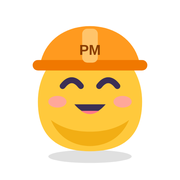
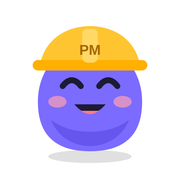
ポコを最初の紫の体＋黄色いヘルメットに戻す（黄色はアプリの配色のみ）
favicon・apple-touch-icon・PWAアイコン・OGPも紫のポコで作り直し。

Claude-Session: https://claude.ai/code/session_01JcA11h6qKqPFSSXFHEX9RD

diff --git a/index.html b/index.html
@@ -717,13 +717,13 @@ function floatXP(x,y,t,cls=""){const e=document.createElement("div");e.className
 function comboPop(t,c){const e=document.createElement("div");e.className="combo";e.textContent=t;if(c)e.style.color=c;document.body.appendChild(e);setTimeout(()=>e.remove(),1000)}
 function toast(t,ms=2400){const e=document.createElement("div");e.className="toast";e.textContent=t;document.body.appendChild(e);setTimeout(()=>e.remove(),ms)}
 
-/* ================= マスコット「ポコ」（オリジナル・黄色ベース） ================= */
-const POCO={body:"#FFC93C",shade:"#F2AE14",cheek:"#FF9FB0",ink:"#3B2F55",hat:"#FF9A1F",brim:"#F07800",ridge:"#FFC46B",txt:"#8A3D00"};
+/* ================= マスコット「ポコ」（オリジナル：紫の体＋黄色いヘルメット） ================= */
+const POCO={body:"#7b6bff",shade:"#6656ee",cheek:"#ff9fb0",ink:"#1d1b33",hat:"#ffc531",brim:"#ffb000",ridge:"#ffd866",txt:"#a86800"};
 function pocoSVG(mood="happy",cls="",vb="0 0 120 120"){const P=POCO,k=P.ink;
  const m=mood==="sad"?"sad":mood==="wow"||mood==="cheer"||mood==="trophy"?"wow":"happy";
  const eyes=m==="sad"?`<circle cx="46" cy="59" r="4.5" fill="${k}"/><circle cx="74" cy="59" r="4.5" fill="${k}"/><path d="M38 52l13-5M82 52l-13-5" stroke="${k}" stroke-width="3.5" stroke-linecap="round"/>`:m==="wow"?`<circle cx="46" cy="56" r="7" fill="#fff"/><circle cx="74" cy="56" r="7" fill="#fff"/><circle cx="46" cy="57" r="4" fill="${k}"/><circle cx="74" cy="57" r="4" fill="${k}"/>`:`<path d="M39 58q7-9 14 0M67 58q7-9 14 0" stroke="${k}" stroke-width="4.5" fill="none" stroke-linecap="round"/>`;
  const mouth=m==="sad"?`<path d="M52 78q8-6 16 0" stroke="${k}" stroke-width="4" fill="none" stroke-linecap="round"/>`:m==="wow"?`<ellipse cx="60" cy="78" rx="6" ry="7" fill="${k}"/>`:`<path d="M48 72q12 14 24 0z" fill="${k}"/><path d="M53 77q7 5 14 0" fill="#ff7a8a"/>`;
- return `<svg class="mascot ${cls}" viewBox="${vb}" aria-hidden="true"><ellipse cx="60" cy="112" rx="32" ry="5" fill="rgba(0,0,0,.12)"/><path d="M20 70c0-26 18-44 40-44s40 18 40 44-14 38-40 38-40-12-40-38z" fill="${P.body}"/><path d="M30 84c6 14 18 20 30 20s24-6 30-20c-8 6-18 9-30 9s-22-3-30-9z" fill="${P.shade}"/><ellipse cx="35" cy="70" rx="7" ry="4.5" fill="${P.cheek}" opacity=".8"/><ellipse cx="85" cy="70" rx="7" ry="4.5" fill="${P.cheek}" opacity=".8"/>${eyes}${mouth}<path d="M22 40c4-18 20-28 38-28s34 10 38 28z" fill="${P.hat}"/><rect x="16" y="38" width="88" height="8" rx="4" fill="${P.brim}"/><rect x="54" y="14" width="12" height="26" rx="4" fill="${P.ridge}"/><text x="60" y="34" font-size="11" font-weight="800" text-anchor="middle" fill="${P.txt}" font-family="sans-serif">PM</text></svg>`}
+ return `<svg class="mascot ${cls}" viewBox="${vb}" aria-hidden="true"><ellipse cx="60" cy="112" rx="32" ry="5" fill="rgba(0,0,0,.12)"/><path d="M20 70c0-26 18-44 40-44s40 18 40 44-14 38-40 38-40-12-40-38z" fill="${P.body}"/><path d="M30 84c6 14 18 20 30 20s24-6 30-20c-8 6-18 9-30 9s-22-3-30-9z" fill="${P.shade}"/><ellipse cx="35" cy="70" rx="7" ry="4.5" fill="${P.cheek}" opacity=".7"/><ellipse cx="85" cy="70" rx="7" ry="4.5" fill="${P.cheek}" opacity=".7"/>${eyes}${mouth}<path d="M22 40c4-18 20-28 38-28s34 10 38 28z" fill="${P.hat}"/><rect x="16" y="38" width="88" height="8" rx="4" fill="${P.brim}"/><rect x="54" y="14" width="12" height="26" rx="4" fill="${P.ridge}"/><text x="60" y="34" font-size="11" font-weight="800" text-anchor="middle" fill="${P.txt}" font-family="sans-serif">PM</text></svg>`}
 function poco(mood="happy",cls=""){return pocoSVG(mood,cls,cls.includes("logo")?"12 8 96 100":"0 0 120 120")}
 
 /* ================= ゲーミフィケーション中核 ================= */

diff --git a/src/app.html b/src/app.html
@@ -396,13 +396,13 @@ function floatXP(x,y,t,cls=""){const e=document.createElement("div");e.className
 function comboPop(t,c){const e=document.createElement("div");e.className="combo";e.textContent=t;if(c)e.style.color=c;document.body.appendChild(e);setTimeout(()=>e.remove(),1000)}
 function toast(t,ms=2400){const e=document.createElement("div");e.className="toast";e.textContent=t;document.body.appendChild(e);setTimeout(()=>e.remove(),ms)}
 
-/* ================= マスコット「ポコ」（オリジナル・黄色ベース） ================= */
-const POCO={body:"#FFC93C",shade:"#F2AE14",cheek:"#FF9FB0",ink:"#3B2F55",hat:"#FF9A1F",brim:"#F07800",ridge:"#FFC46B",txt:"#8A3D00"};
+/* ================= マスコット「ポコ」（オリジナル：紫の体＋黄色いヘルメット） ================= */
+const POCO={body:"#7b6bff",shade:"#6656ee",cheek:"#ff9fb0",ink:"#1d1b33",hat:"#ffc531",brim:"#ffb000",ridge:"#ffd866",txt:"#a86800"};
 function pocoSVG(mood="happy",cls="",vb="0 0 120 120"){const P=POCO,k=P.ink;
  const m=mood==="sad"?"sad":mood==="wow"||mood==="cheer"||mood==="trophy"?"wow":"happy";
  const eyes=m==="sad"?`<circle cx="46" cy="59" r="4.5" fill="${k}"/><circle cx="74" cy="59" r="4.5" fill="${k}"/><path d="M38 52l13-5M82 52l-13-5" stroke="${k}" stroke-width="3.5" stroke-linecap="round"/>`:m==="wow"?`<circle cx="46" cy="56" r="7" fill="#fff"/><circle cx="74" cy="56" r="7" fill="#fff"/><circle cx="46" cy="57" r="4" fill="${k}"/><circle cx="74" cy="57" r="4" fill="${k}"/>`:`<path d="M39 58q7-9 14 0M67 58q7-9 14 0" stroke="${k}" stroke-width="4.5" fill="none" stroke-linecap="round"/>`;
  const mouth=m==="sad"?`<path d="M52 78q8-6 16 0" stroke="${k}" stroke-width="4" fill="none" stroke-linecap="round"/>`:m==="wow"?`<ellipse cx="60" cy="78" rx="6" ry="7" fill="${k}"/>`:`<path d="M48 72q12 14 24 0z" fill="${k}"/><path d="M53 77q7 5 14 0" fill="#ff7a8a"/>`;
- return `<svg class="mascot ${cls}" viewBox="${vb}" aria-hidden="true"><ellipse cx="60" cy="112" rx="32" ry="5" fill="rgba(0,0,0,.12)"/><path d="M20 70c0-26 18-44 40-44s40 18 40 44-14 38-40 38-40-12-40-38z" fill="${P.body}"/><path d="M30 84c6 14 18 20 30 20s24-6 30-20c-8 6-18 9-30 9s-22-3-30-9z" fill="${P.shade}"/><ellipse cx="35" cy="70" rx="7" ry="4.5" fill="${P.cheek}" opacity=".8"/><ellipse cx="85" cy="70" rx="7" ry="4.5" fill="${P.cheek}" opacity=".8"/>${eyes}${mouth}<path d="M22 40c4-18 20-28 38-28s34 10 38 28z" fill="${P.hat}"/><rect x="16" y="38" width="88" height="8" rx="4" fill="${P.brim}"/><rect x="54" y="14" width="12" height="26" rx="4" fill="${P.ridge}"/><text x="60" y="34" font-size="11" font-weight="800" text-anchor="middle" fill="${P.txt}" font-family="sans-serif">PM</text></svg>`}
+ return `<svg class="mascot ${cls}" viewBox="${vb}" aria-hidden="true"><ellipse cx="60" cy="112" rx="32" ry="5" fill="rgba(0,0,0,.12)"/><path d="M20 70c0-26 18-44 40-44s40 18 40 44-14 38-40 38-40-12-40-38z" fill="${P.body}"/><path d="M30 84c6 14 18 20 30 20s24-6 30-20c-8 6-18 9-30 9s-22-3-30-9z" fill="${P.shade}"/><ellipse cx="35" cy="70" rx="7" ry="4.5" fill="${P.cheek}" opacity=".7"/><ellipse cx="85" cy="70" rx="7" ry="4.5" fill="${P.cheek}" opacity=".7"/>${eyes}${mouth}<path d="M22 40c4-18 20-28 38-28s34 10 38 28z" fill="${P.hat}"/><rect x="16" y="38" width="88" height="8" rx="4" fill="${P.brim}"/><rect x="54" y="14" width="12" height="26" rx="4" fill="${P.ridge}"/><text x="60" y="34" font-size="11" font-weight="800" text-anchor="middle" fill="${P.txt}" font-family="sans-serif">PM</text></svg>`}
 function poco(mood="happy",cls=""){return pocoSVG(mood,cls,cls.includes("logo")?"12 8 96 100":"0 0 120 120")}
 
 /* ================= ゲーミフィケーション中核 ================= */
